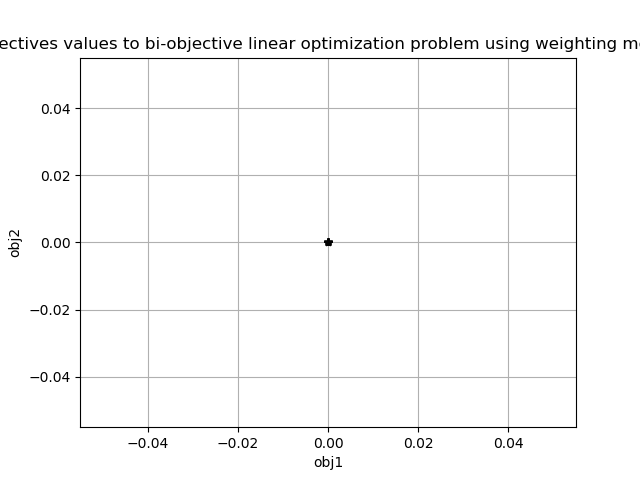
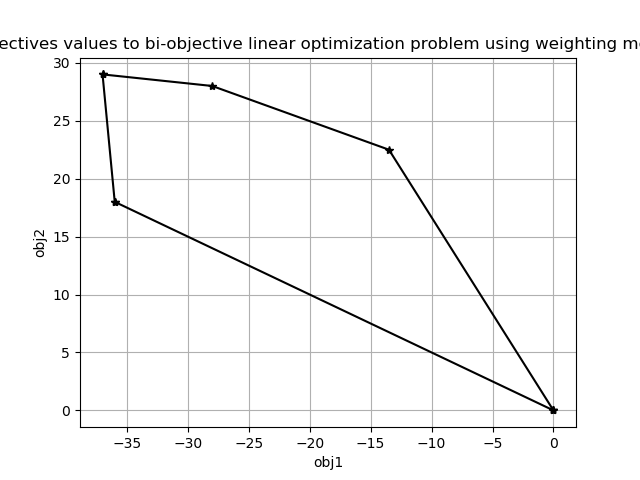
plotting functions added

diff --git a/P2/main_weighting.py b/P2/main_weighting.py
@@ -58,40 +58,52 @@ b = np.array(c_arr[:,3], dtype='float')
 
 obj_arr = np.array(obj_file)
 fig1, ax1, Feas1, Feas2 = feasPlotx(a,b,x1,x2)
-Feasz1, Feasz2 = feasPlotz(obj_arr, Feas1, Feas2)
 
 
 ax1.plot(x1,x2,'*r', label = 'Pareto solution')
 ax1.plot(x1,x2,'b', label = 'Pareto frontier')
-ax1.set_xlabel('x1')
-ax1.set_ylabel('x2')
-ax1.grid(True)
 plt.legend()
 
-for x,y in zip(x1,x2):
-    label = "(" + "{:.1f}".format(x) + "," + "{:.1f}".format(y) + ")"
-    plt.annotate(label, # this is the text
-                 (x,y), # this is the point to label
-                 textcoords="offset points", # how to position the text
-                 xytext=(5,-5)) # distance from text to points (x,y)
+
+label = "(" + "{:.1f}".format(x1[0]) + "," + "{:.1f}".format(x2[0]) + ")"
+plt.annotate(label, # this is the text
+             (x1[0],x2[0]), # this is the point to label
+             textcoords="offset points", # how to position the text
+             xytext=(5,7)) # distance from text to points (x,y)
+label = "(" + "{:.1f}".format(x1[2]) + "," + "{:.1f}".format(x2[2]) + ")"
+plt.annotate(label, # this is the text
+             (x1[2],x2[2]), # this is the point to label
+             textcoords="offset points", # how to position the text
+             xytext=(5,1)) # distance from text to points (x,y)
+label = "(" + "{:.1f}".format(x1[4]) + "," + "{:.1f}".format(x2[4]) + ")"
+plt.annotate(label, # this is the text
+             (x1[4],x2[4]), # this is the point to label
+             textcoords="offset points", # how to position the text
+             xytext=(-42,-10)) # distance from text to points (x,y)
 
 plt.savefig('pareto_weighting_x.png')
 
-fig2, ax2 = plt.subplots()
-ax2.plot(z1,z2,'.r')
-ax2.plot(z1,z2,'b')
-ax2.set_title('Pareto frontier Weighting method z\'s values')
-ax2.set_xlabel('z1')
-ax2.set_ylabel('z2')
-ax2.grid(True)
-for x,y in zip(z1,z2):
+fig2, ax2, Feasz1, Feasz2 = feasPlotz(obj_arr, Feas1, Feas2)
 
-    label = "(" + "{:.1f}".format(x) + "," + "{:.1f}".format(y) + ")"
+ax2.plot(z1,z2,'*r', label = 'Pareto solution')
+ax2.plot(z1,z2,'b', label = 'Pareto frontier')
+plt.legend()
 
-    plt.annotate(label, # this is the text
-                 (x,y), # this is the point to label
-                 textcoords="offset points", # how to position the text
-                 xytext=(0,-5)) # distance from text to points (x,y)
+label = "(" + "{:.1f}".format(z1[0]) + "," + "{:.1f}".format(z2[0]) + ")"
+plt.annotate(label, # this is the text
+             (z1[0],z2[0]), # this is the point to label
+             textcoords="offset points", # how to position the text
+             xytext=(-50,-5)) # distance from text to points (x,y)
+label = "(" + "{:.1f}".format(z1[2]) + "," + "{:.1f}".format(z2[2]) + ")"
+plt.annotate(label, # this is the text
+             (z1[2],z2[2]), # this is the point to label
+             textcoords="offset points", # how to position the text
+             xytext=(5,0)) # distance from text to points (x,y)
+label = "(" + "{:.1f}".format(z1[4]) + "," + "{:.1f}".format(z2[4]) + ")"
+plt.annotate(label, # this is the text
+             (z1[4],z2[4]), # this is the point to label
+             textcoords="offset points", # how to position the text
+             xytext=(5,-20)) # distance from text to points (x,y)
 
 plt.savefig('pareto_weighting_z.png')
 

diff --git a/P2/functions.py b/P2/functions.py
@@ -29,7 +29,7 @@ def feasPlotx( A, B, x1, x2):
     Feas2 = np.array(Feas2)
     ax.plot(Feas1[s],Feas2[s],'*k')
     ax.plot(Feas1[s],Feas2[s],'k', linewidth=1.5, label = 'Feasible region')
-    ax.set_title('Solution to bi-objective linear optimization problem using weighting method')
+    fig.suptitle('Solution to bi-objective linear optimization problem \n using weighting method', fontsize=14)
     ax.set_xlabel('x1')
     ax.set_ylabel('x2')
     ax.grid(True)
@@ -44,7 +44,7 @@ def feasPlotz( obj_arr, Feas1, Feas2):
         Feasz1 = np.append(Feasz1, obj_arr[0][0]*Feas1[i]+obj_arr[0][1]*Feas2[i])
         Feasz2 = np.append(Feasz2, obj_arr[1][0]*Feas1[i]+obj_arr[1][1]*Feas2[i])
     fig, ax = plt.subplots()
-    
+    '''
     t = [0,0]
     e1 = np.array([], dtype='float')
     s = np.array([], dtype='int')
@@ -64,14 +64,19 @@ def feasPlotz( obj_arr, Feas1, Feas2):
         z = np.delete(z, m, axis=0)
         print(z)
     print(s)
+
+    '''
+    
     #s = np.argsort(abs(Feasz1))
+    #print(s)
     #s = np.append(s,0)
+    s = [0, 1, 7, 5, 4, 6, 2, 3, 0]
     ax.plot(Feasz1[s],Feasz2[s],'*k')
     ax.plot(Feasz1[s],Feasz2[s],'k', linewidth=1.5, label = 'Feasible region')
-    ax.set_title('Objectives values to bi-objective linear optimization problem using weighting method')
+    fig.suptitle('Objectives values to bi-objective linear optimization problem \n using weighting method', fontsize=14)
     ax.set_xlabel('obj1')
     ax.set_ylabel('obj2')
     ax.grid(True)
-    plt.savefig('test2.png')
-    print([Feasz1[s],Feasz2[s]])
-    return (Feasz1, Feasz2)
+    #plt.savefig('test2.png')
+    #print([Feasz1[s],Feasz2[s]])
+    return (fig, ax, Feasz1, Feasz2)
